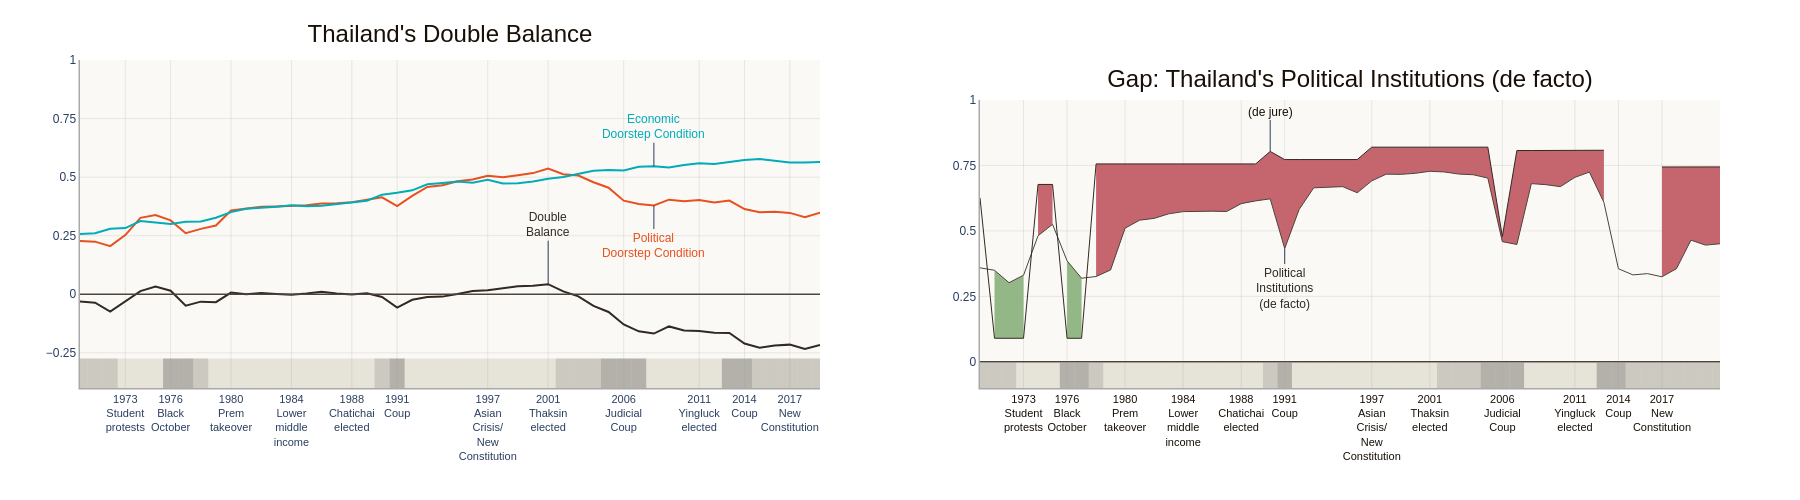
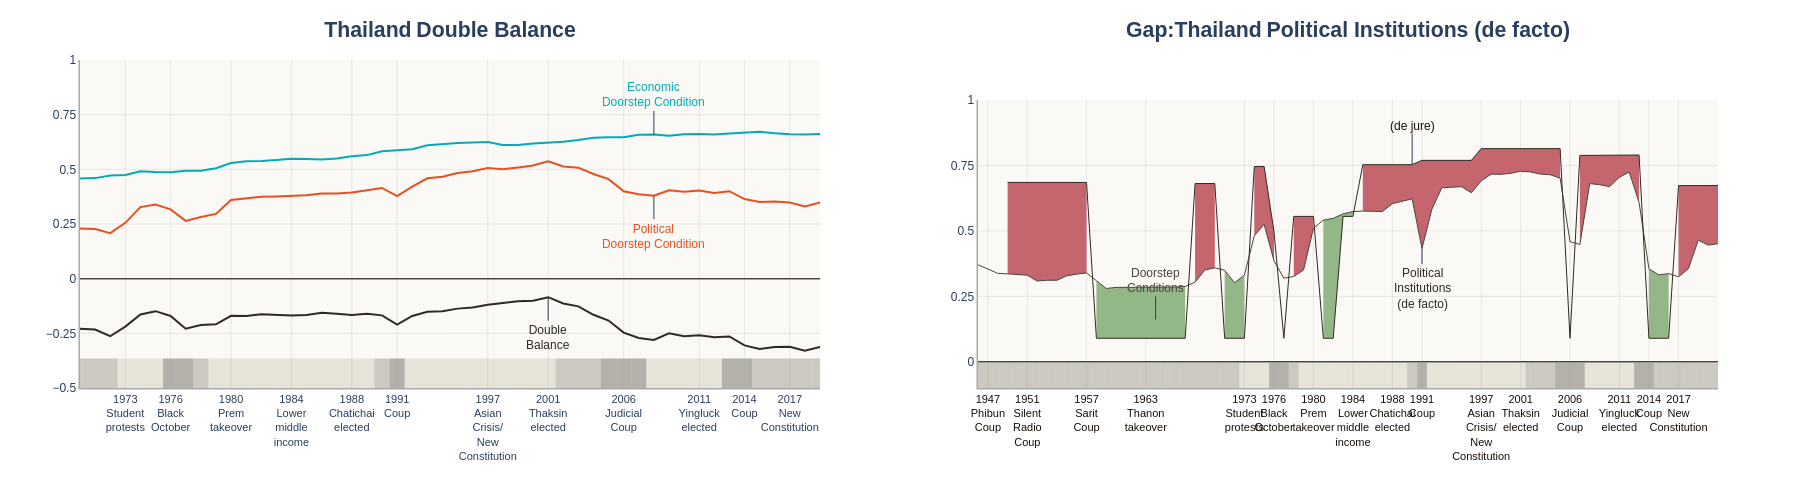
graphs added

diff --git a/README.md b/README.md
@@ -2,9 +2,12 @@
 
 The dashboard visualizes a collection of key political and economic development indicators over a subset of country-years. The conceptualization of the dataset relies heavily on my PhD project, which is why at this stage only a snippet of the data is up for display. 
 
-The data includes 40 indicators and various aggregate measures of political and economic development for each country. The full dataset dataset covers 106 countries and 3,000 country-years, which probably makes it the most comprehensive consecutive time-series on the conjunction of political and economic development to date. Key features are composite indicators of political and economic development as well as disaggregated data on _de facto_ and _de jure_ institutional development. 
+The data includes approximately 60 indicators and various aggregate measures of political and economic development for each country. The full dataset dataset covers 106 countries and 3,000 country-years, which probably makes it the most comprehensive consecutive time-series on the conjunction of political and economic development to date. Key features are composite indicators of political and economic development as well as disaggregated data on _de facto_ and _de jure_ institutional development. 
 
 ![](https://github.com/jarisdata/asian_development_data/blob/main/graphs/tha_db_gap.png)
+
+![](https://github.com/jarisdata/asian_development_data/blob/main/graphs/tha_dc_gap_radar.png)
+
 
 The data comes from approximately 40 different sources, including Varieties of Democracy (V-Dem), Fraser Economic Freedom of the World, UN, World Bank, International Monetary Fund (IMF), Economic Transformation Database (ETD), Atlas of Economic Complexity, Penn World Tables (PWT), Government Revenue Dataset (GRD), Centre for Business Research Labour Regulation Index (CBR–LRI), and Institute for Health Metrics and Evaluation (IHME).
 
@@ -13,5 +16,3 @@ The dashboard itself is still in its very early stages, but some of the core fun
 A major update with global coverage, a detailed codebook with descriptions of the indicators and the method of aggregation, as well as a fresh design can be expected toward the end of 2024.
 
 If you want to use any of the data or visualizations on this GitHub repo please contact me in advance. Thanks!
-
-
